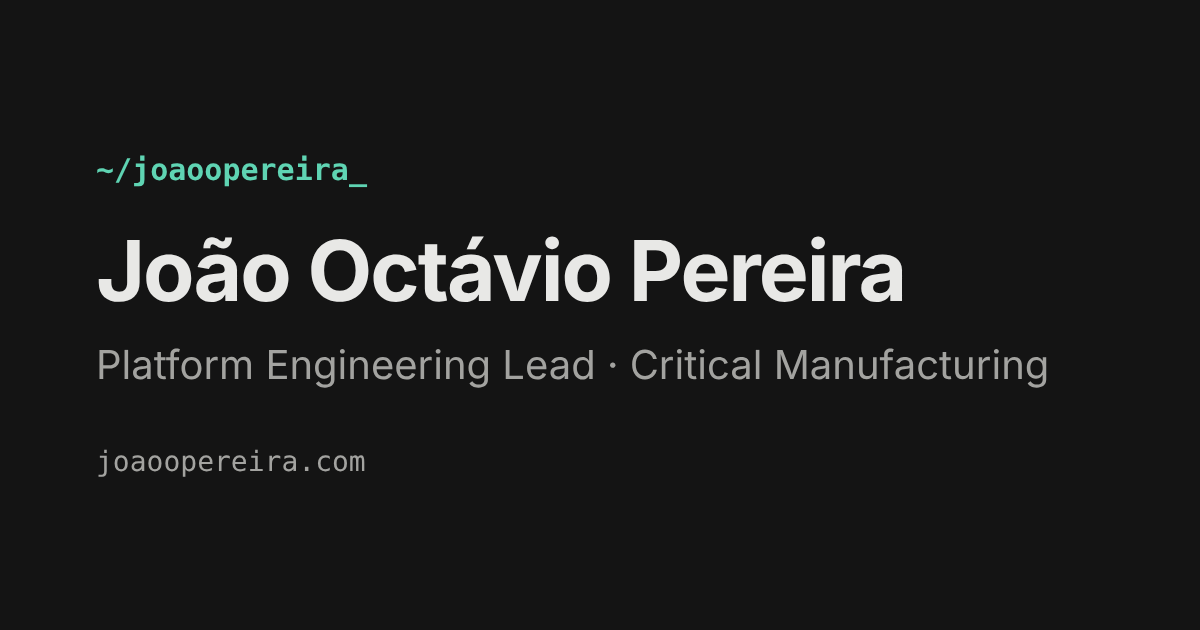
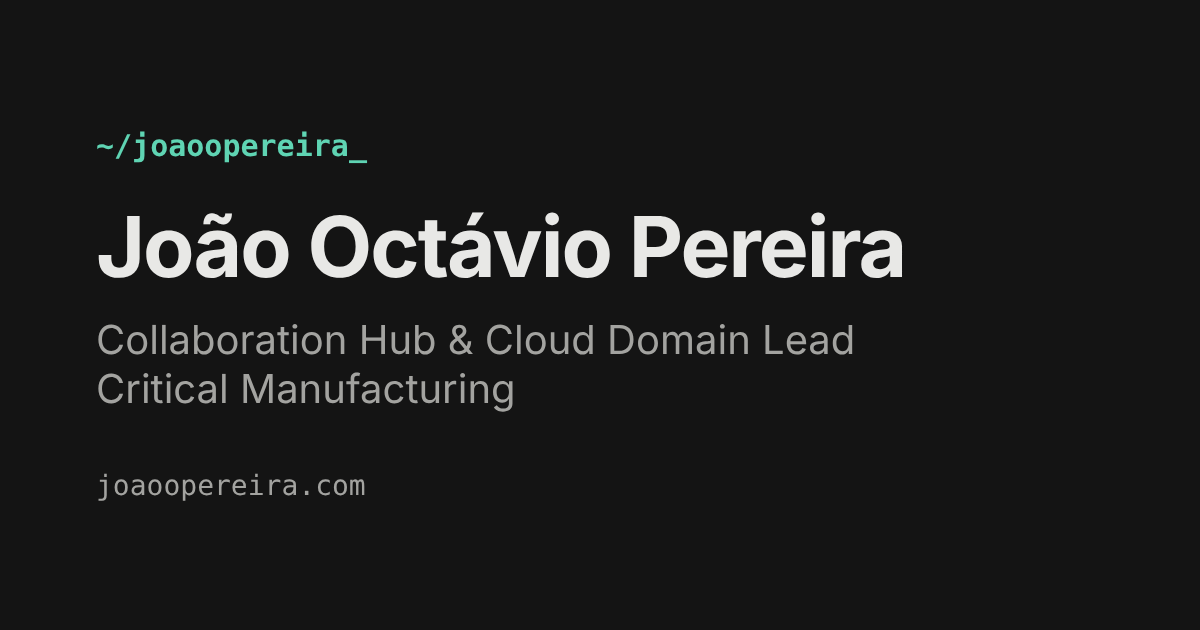
feat(website): update current title to Collaboration Hub & Cloud Domain Lead
Also updates the profile README, meta description, JSON-LD and social card. The career entry summary is now optional.

Claude-Session: https://claude.ai/code/session_01DLXuWY79qy7oCW95eNNUwh

diff --git a/site/layouts/index.html b/site/layouts/index.html
@@ -20,7 +20,7 @@
       <p class="when">{{ .from }}–{{ if eq (string .to) "now" }}<span class="now">now</span>{{ else }}{{ .to }}{{ end }}</p>
       <div>
         <h3>{{ .role }} <span class="org">· {{ .org }}</span></h3>
-        <p>{{ .summary }}</p>
+        {{- with .summary }}<p>{{ . }}</p>{{ end }}
         {{- with .points }}
         <ul>{{ range . }}<li>{{ . }}</li>{{ end }}</ul>
         {{- end }}

diff --git a/README.md b/README.md
@@ -1,6 +1,6 @@
 ### Hi, I'm João 👋
 
-Platform Engineering Lead at [Critical Manufacturing](https://criticalmanufacturing.com) in Porto, Portugal. My team runs the Kubernetes and OpenShift platforms our MES ships on, plus the CI/CD and developer tooling behind it.
+Collaboration Hub & Cloud Domain Lead at [Critical Manufacturing](https://criticalmanufacturing.com) in Porto, Portugal. Before that I led Platform Engineering: the Kubernetes and OpenShift platforms our MES ships on, plus the CI/CD and developer tooling behind it.
 
 - 🔁 [**dotnet-test-rerun**](https://github.com/joaoopereira/dotnet-test-rerun): reruns failed .NET tests so one flaky test doesn't fail the pipeline
 - 🛠 [**criticalmanufacturing/cli**](https://github.com/criticalmanufacturing/cli): the open-source CLI for Critical Manufacturing projects

diff --git a/site/content/_index.md b/site/content/_index.md
@@ -2,6 +2,6 @@
 title: home
 ---
 
-I lead Platform Engineering at [Critical Manufacturing](https://criticalmanufacturing.com) in Porto, where my team runs the Kubernetes and OpenShift platforms our customers deploy on and the CI/CD and tooling our engineers ship with. I like turning ten ways of doing something into one good way.
+I'm Collaboration Hub & Cloud Domain Lead at [Critical Manufacturing](https://criticalmanufacturing.com) in Porto. Before that I led Platform Engineering, where my team ran the Kubernetes and OpenShift platforms our customers deploy on and the CI/CD and tooling our engineers ship with. I like turning ten ways of doing something into one good way.
 
 Outside work I'm a husband and dad of two, a board member at the [Retorta](https://retorta.com) theatre company, and its lighting designer.
